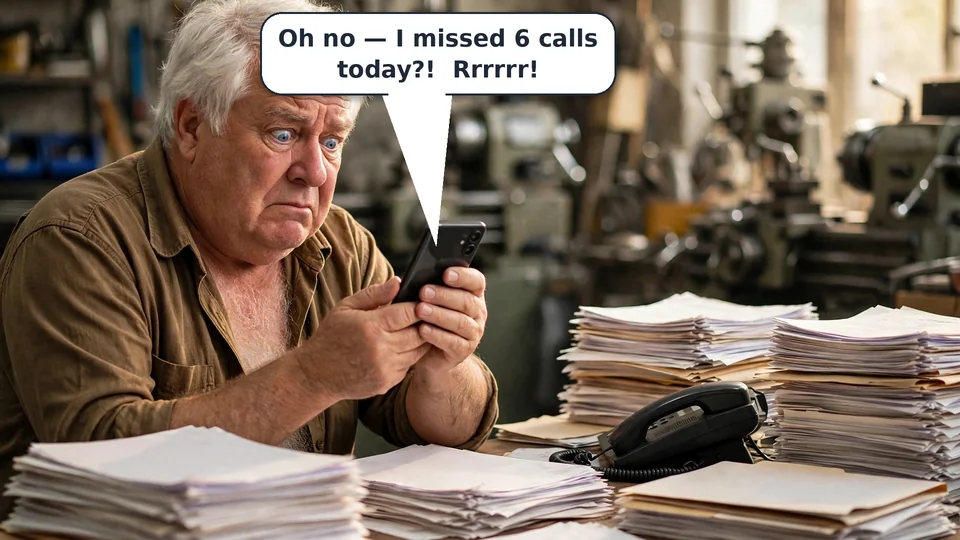
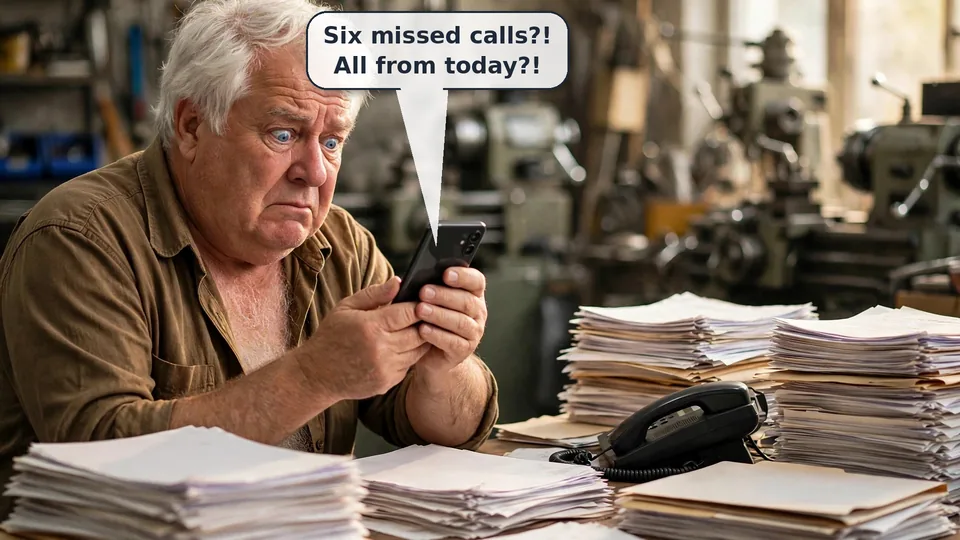
Hero slider polish v3: caller bubble on the AC slide, revised missed-calls bubble, older couple mirrored clear of their slogan, Aspen closer crop nudge

Changed region(s): [[0.25, 0.0, 0.6562, 0.4444]]

diff --git a/src/components/landing/HeroSceneSlider.tsx b/src/components/landing/HeroSceneSlider.tsx
@@ -38,7 +38,10 @@ interface HeroScene {
 }
 
 // The seven scenes (2026-11-18, owner-approved lineup, SLIDER PACKAGE
-// v2): the four pain lines show the missed-call moment — owners caught
+// v2; v3 polish: the AC man and the white-haired owner carry the
+// owner's semi-transparent speech bubbles, and the older couple is
+// mirrored so they stand clear of their right-side slogan): the four
+// pain lines show the missed-call moment — owners caught
 // mid-job while the phone rings unanswered — and the three promise
 // lines show the same world calm, the phones handled, closing on Aspen
 // herself showing two owners the leads she caught. Candid,
@@ -53,12 +56,12 @@ interface HeroScene {
 // any of them, so nothing reads backwards).
 const HERO_SCENES: readonly HeroScene[] = [
   { id: "plumber-pain", src: plumberPain, srcSm: plumberPainSm, position: "72% 25%", alt: "A plumber under a kitchen sink, glancing at her phone ringing on the counter" },
-  { id: "ac-guy-pain", src: acGuyPain, srcSm: acGuyPainSm, position: "30% 20%", alt: "An air-conditioning repairman fanning himself in a hot workshop while his desk phone rings" },
+  { id: "ac-guy-pain", src: acGuyPain, srcSm: acGuyPainSm, position: "30% 20%", alt: "An air-conditioning repairman fanning himself in a hot workshop while his desk phone rings, a speech bubble overhead from the frustrated caller who is about to try the next company" },
   { id: "roofer-pain", src: rooferPain, srcSm: rooferPainSm, position: "62% 12%", alt: "A roofer up on a roof, nail gun in hand, his phone buzzing in his tool belt" },
   { id: "manufacturer-pain-whitehair", src: manufacturerPainWhitehair, srcSm: manufacturerPainWhitehairSm, position: "30% 10%", alt: "A white-haired machine-shop owner staring at his phone in disbelief at six missed calls, buried in paper orders" },
   { id: "couple-husky", src: coupleHusky, srcSm: coupleHuskySm, position: "70% 20%", alt: "A husband-and-wife couple who own a furniture workshop, smiling together among their handmade tables" },
-  { id: "couple-relief", src: coupleRelief, srcSm: coupleReliefSm, position: "68% 22%", alt: "An older couple who own a small shop, laughing as they hand a bag to a customer" },
-  { id: "aspen-owners", src: aspenOwners, srcSm: aspenOwnersSm, position: "78% 25%", alt: "Aspen showing two kitchen and marble shop owners their answered calls and new leads on a tablet" },
+  { id: "couple-relief", src: coupleRelief, srcSm: coupleReliefSm, position: "30% 22%", alt: "An older couple who own a small shop, laughing as they hand a bag to a customer" },
+  { id: "aspen-owners", src: aspenOwners, srcSm: aspenOwnersSm, position: "78% 32%", alt: "Aspen showing two kitchen and marble shop owners their answered calls and new leads on a tablet" },
 ];
 
 /**
@@ -70,7 +73,7 @@ const HERO_SCENES: readonly HeroScene[] = [
  *   2 78% abandoned, one missed call   -> roofer-pain (up on the roof, phone buzzing in his belt)
  *   3 owners shocked, ONE missed call  -> manufacturer-pain-whitehair (staring at his phone — six missed calls — the disbelief beat; the master is pre-mirrored with the owner's speech bubble composited in)
  *   4 spokespersons / your own face    -> couple-husky (the owners ARE the face of their workshop)
- *   5 never miss another call, 24/7    -> couple-relief (the older couple, free to laugh with the customer in front of them)
+ *   5 never miss another call, 24/7    -> couple-relief (the older couple, free to laugh with the customer in front of them; the master is mirrored so the couple stands left, clear of this line's right-side slogan)
  *   6 $99/mo + B2B prospects           -> aspen-owners (Aspen showing the cabinet-shop owners their leads on her tablet — the payoff)
  */
 const SCENE_FOR_LINE: readonly number[] = [0, 1, 2, 3, 4, 5, 6];
